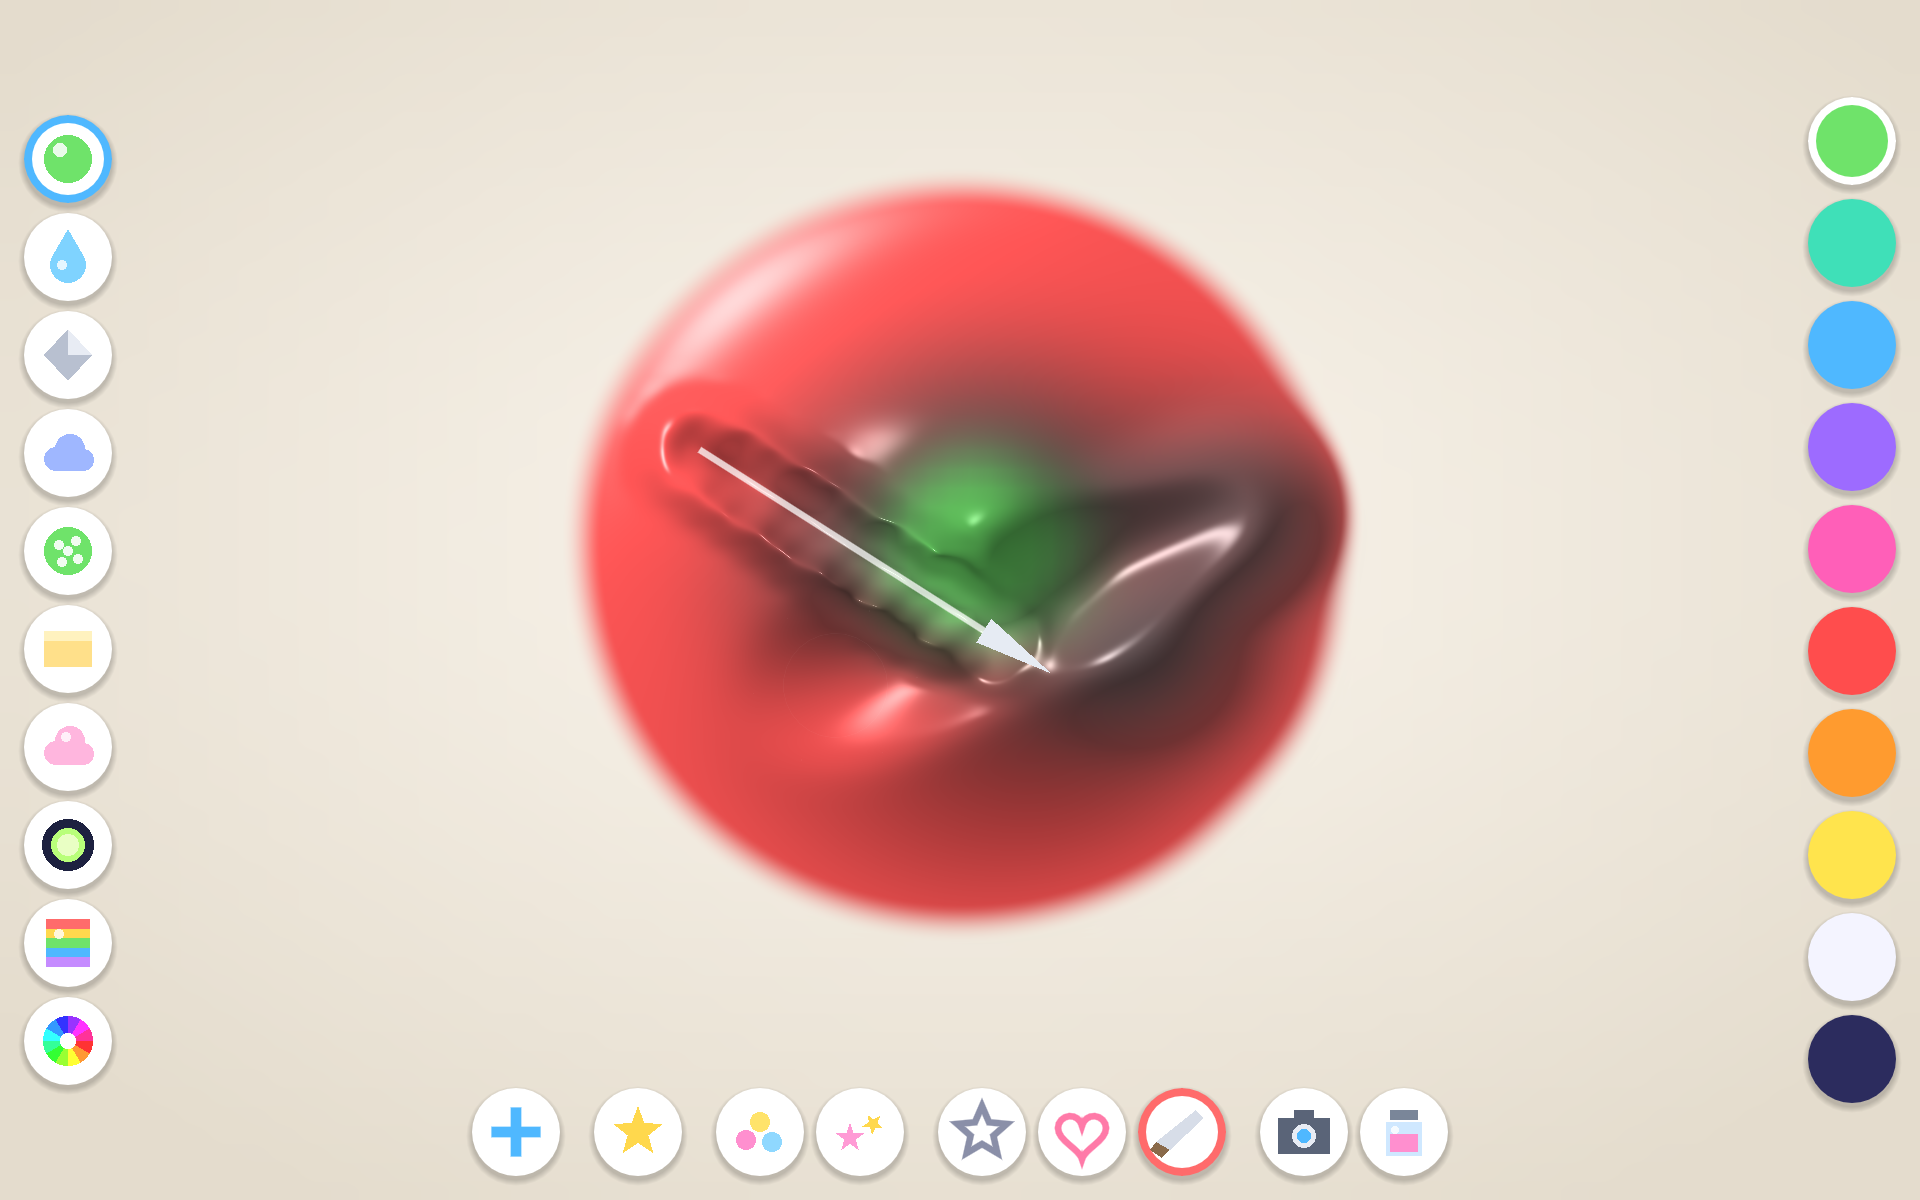
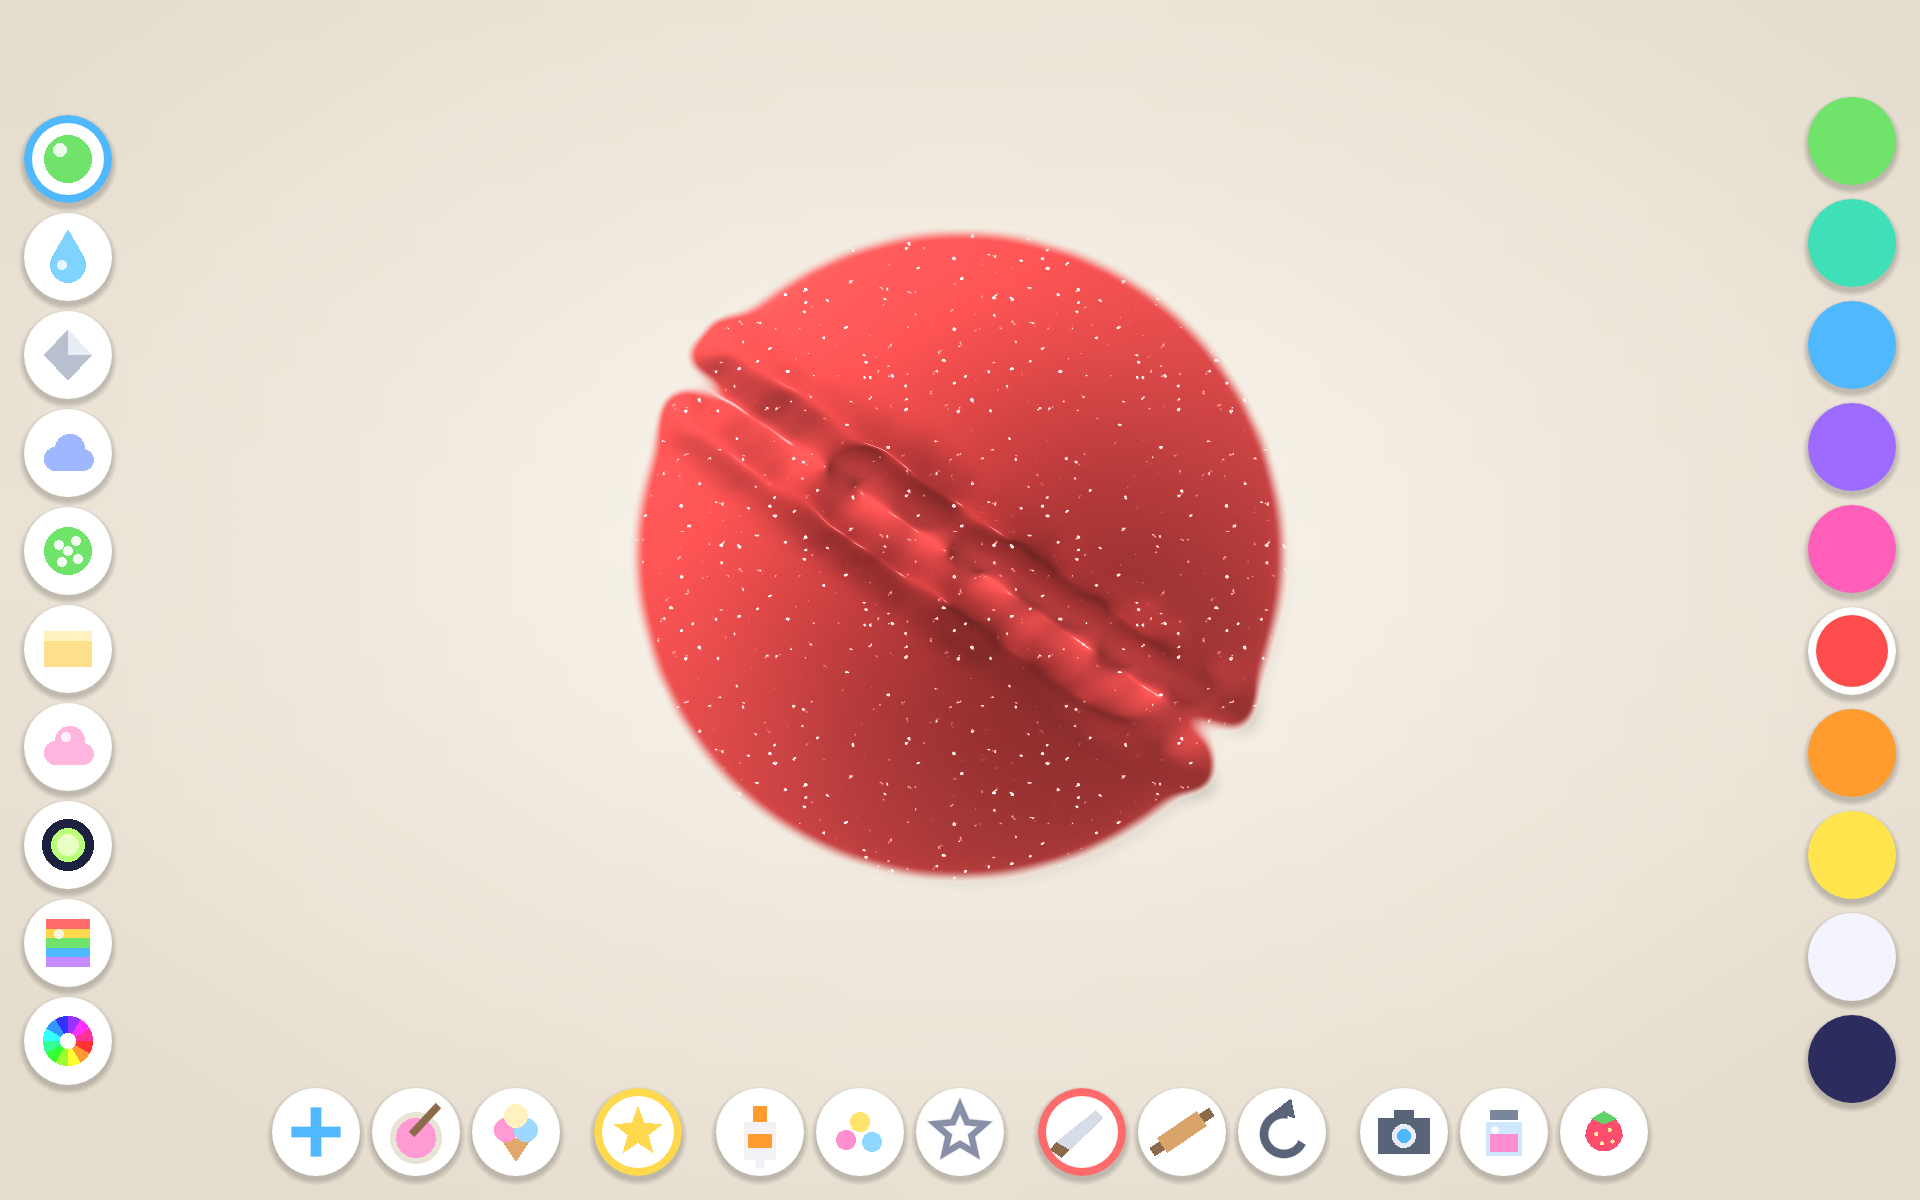
v1.0.2 (code 4): stamps tool cue, new store screenshots

diff --git a/CLAUDE.md b/CLAUDE.md
@@ -34,7 +34,7 @@ Colour lives in a second interleaved float array `_c` holding Kubelka-Munk K/S p
 with the slime in `_smear` (thickness-weighted) and blended by `_mix`. `drop()` pours a colour
 at the centroid; `stamp()` presses a star/heart/circle/flower/moon/fish polygon in (`_shape_polygon`; the tile icons for moon/fish reuse it). `scripts/addins.gd` holds beads and
 stars that `advect`/`push_out` with the fingers. Styles are shader-uniform sets in
-`Slime.STYLES`. `scripts/bubbles.gd` spawns/pops bubbles (hooked from the finger loop in slime.gd); `scripts/pour.gd` is the falling-drop animation main.gd spawns on a palette tap, calling `slime.drop()` on landing. `scripts/mixing.gd` is the first-run make-slime ritual (main.gd swaps it in for the slime; + skips). Snapshot: main.gd `_save_to_gallery` uses `Engine.get_singleton("AndroidRuntime")` + `JavaClassWrapper` to insert into MediaStore (Pictures/Slime), falling back to user://. Portrait: main.gd switches `content_scale_size` 1920x1200 <-> 1200x1920 and slime.gd transposes its grid. `scripts/jars.gd` is the shelf (state + 260x325 PNG thumbs under user://jars). Knife: main.gd intercepts touches when the knife toggle is on and calls `slime.slice(a, b)` per drag segment. The wet loop (`wet_loop.wav`, looped WAV) is faded/pitched from `slime.kneading`. Kinds glow/holo/magic are shader uniforms (`glow`, `holo`, `hue_shift`); glow also fades in a dark ColorRect over the table. `scripts/mixing.gd` v2 opening uses `scripts/hand.gd` (tap/drag/circle cue), `scripts/picker.gd` is the generic tile overlay used for themes (main.gd THEMES) and scents (`scripts/scents.gd`, particles drawn in code). `scripts/store.gd` = entitlement + `available()` (false until Amazon IAP / Play Billing plugin is added; create `user://store_debug` on a debug build to test the shop UI); `scripts/gate.gd` = 3 s hold parental gate; premium items live in main.gd PREMIUM_THEMES and the "rainbow" sprinkle, rebuilt by `_rebuild_pickers()`. slime.gd: `add_glue()` grows mass up to `max_growth`, `remember()/undo()` 8-deep, `_pinch()` two-finger ridge, `roll()` rolling pin. UI buttons are drawn in code (`ui.gd` IconControl) — no image assets, no text.
+`Slime.STYLES`. `scripts/bubbles.gd` spawns/pops bubbles (hooked from the finger loop in slime.gd); `scripts/pour.gd` is the falling-drop animation main.gd spawns on a palette tap, calling `slime.drop()` on landing. `scripts/mixing.gd` is the first-run make-slime ritual (main.gd swaps it in for the slime; + skips). Snapshot: main.gd `_save_to_gallery` uses `Engine.get_singleton("AndroidRuntime")` + `JavaClassWrapper` to insert into MediaStore (Pictures/Slime), falling back to user://. Portrait: main.gd switches `content_scale_size` 1920x1200 <-> 1200x1920 and slime.gd transposes its grid. `scripts/jars.gd` is the shelf (state + 260x325 PNG thumbs under user://jars). Knife: main.gd intercepts touches when the knife toggle is on and calls `slime.slice(a, b)` per drag segment. The wet loop (`wet_loop.wav`, looped WAV) is faded/pitched from `slime.kneading`. Kinds glow/holo/magic are shader uniforms (`glow`, `holo`, `hue_shift`); glow also fades in a dark ColorRect over the table. `scripts/mixing.gd` v2 opening uses `scripts/hand.gd` (tap/drag/circle cue), `scripts/picker.gd` is the generic tile overlay used for themes (main.gd THEMES) and scents (`scripts/scents.gd`, particles drawn in code). `scripts/store.gd` = entitlement + `available()` (false until Amazon IAP / Play Billing plugin is added; create `user://store_debug` on a debug build to test the shop UI); `scripts/gate.gd` = 3 s hold parental gate; premium items live in main.gd PREMIUM_THEMES and the "rainbow" sprinkle, rebuilt by `_rebuild_pickers()`. slime.gd: `add_glue()` grows mass up to `max_growth`, `remember()/undo()` 8-deep, `_pinch()` two-finger ridge, `roll()` rolling pin. UI buttons are drawn in code (`ui.gd` IconControl) — no image assets, no text. Hints: first-touch drag cue after the ritual (`_show_hint`), then a stamps-button tap cue (`_arm_tool_hint`, 18 s after the first touch, ≤2 per launch, off for good once the picker is opened; `ui.tool_hinted` in settings.cfg; `hand.gd` `flip` hangs the hand from above for bottom-edge cues).
 
 ## Rules
 - No internet permission, no analytics, no ads, no text in the UI (kids may not read).

diff --git a/PLAN.md b/PLAN.md
@@ -17,7 +17,7 @@
 | 8 Shop | ⏸ 99c unlock built and hidden (`store.gd`); decision: stay free, revisit only if installs justify a billing afternoon |
 
 **Paused 2026-10-27.** Google approved the closed test the same day. Testers Community (Starter, 15 testers) submitted 2026-10-27; testers expected on the track within hours, so the 14-day clock should start ~2026-10-27/28 and end ~2026-11-10/11.
-Plan (Testers Community recommends 2–3 updates during the window): **v1.0.1 (code 3) built 2026-10-30**: two new stamps (moon, fish), verified on the API 36 emulator, AAB sent for review on the Alpha track 2026-10-30; store screenshots still to refresh (current ones predate glue/knife/roller/undo); **v1.0.2 (code 4) on 2026-11-07**: small feel tweak + refreshed store screenshots + keyword-refreshed listing description (drafted 2026-11-05, in docs/testers-feedback.md). Testers Community feedback report (2026-11-05) said no crashes on any device; its rate/share/feedback-form suggestions were declined (no text, no internet, parent-gate rules) — Adam's call. Testers need do nothing; Play auto-updates opted-in devices. Day 15 (~2026-11-11): download their Production Access Report (Reports tab), Apply for production with real feedback wording, then opt into Teacher Approved. Keep both tester groups on the Alpha track; never delete the track or change package/signing/declarations during the window.
+Plan (Testers Community recommends 2–3 updates during the window): **v1.0.1 (code 3) built 2026-10-30**: two new stamps (moon, fish), verified on the API 36 emulator, AAB sent for review on the Alpha track 2026-10-30; store screenshots still to refresh (current ones predate glue/knife/roller/undo); **v1.0.2 (code 4) built 2026-11-07**: stamps-button tap cue for kids who only squish (the report's 'tutorial' item, no text), 10 new store screenshots (`store/screenshots`, 8 of them 16:9 in `store/google`), keyword-refreshed listing description (docs/testers-feedback.md) — AAB ready for the Alpha track. Testers Community feedback report (2026-11-05) said no crashes on any device; its rate/share/feedback-form suggestions were declined (no text, no internet, parent-gate rules) — Adam's call. Testers need do nothing; Play auto-updates opted-in devices. Day 15 (~2026-11-11): download their Production Access Report (Reports tab), Apply for production with real feedback wording, then opt into Teacher Approved. Keep both tester groups on the Alpha track; never delete the track or change package/signing/declarations during the window.
 
 See `store/listing.md` for the exact submission steps and listing text.
 

diff --git a/docs/testers-feedback.md b/docs/testers-feedback.md
@@ -10,7 +10,7 @@ Source: `~/Desktop/Squish! Slime for Kids - Feedback Report - squish_feedback.pd
 ## Wording for the production-access form
 - Testers: a testing community (15) plus family.
 - Feedback: ran cleanly across devices and Android versions, no crashes. Suggested a keyword-richer description and rating/share prompts; the prompts were declined to keep the kids' app free of text and outbound links.
-- Changes: v1.0.1 added moon and fish stamps. v1.0.2 refreshed the listing description and screenshots to show the current tools, plus a small feel tweak.
+- Changes: v1.0.1 added moon and fish stamps. v1.0.2 added a no-text in-app cue that points kids to the stamps tool after they have squished for a while (from the report's tutorial suggestion), refreshed the listing description and screenshots to show the current tools.
 
 ## Listing description refresh (paste into Play Console with v1.0.2)
 Short (74 chars):
